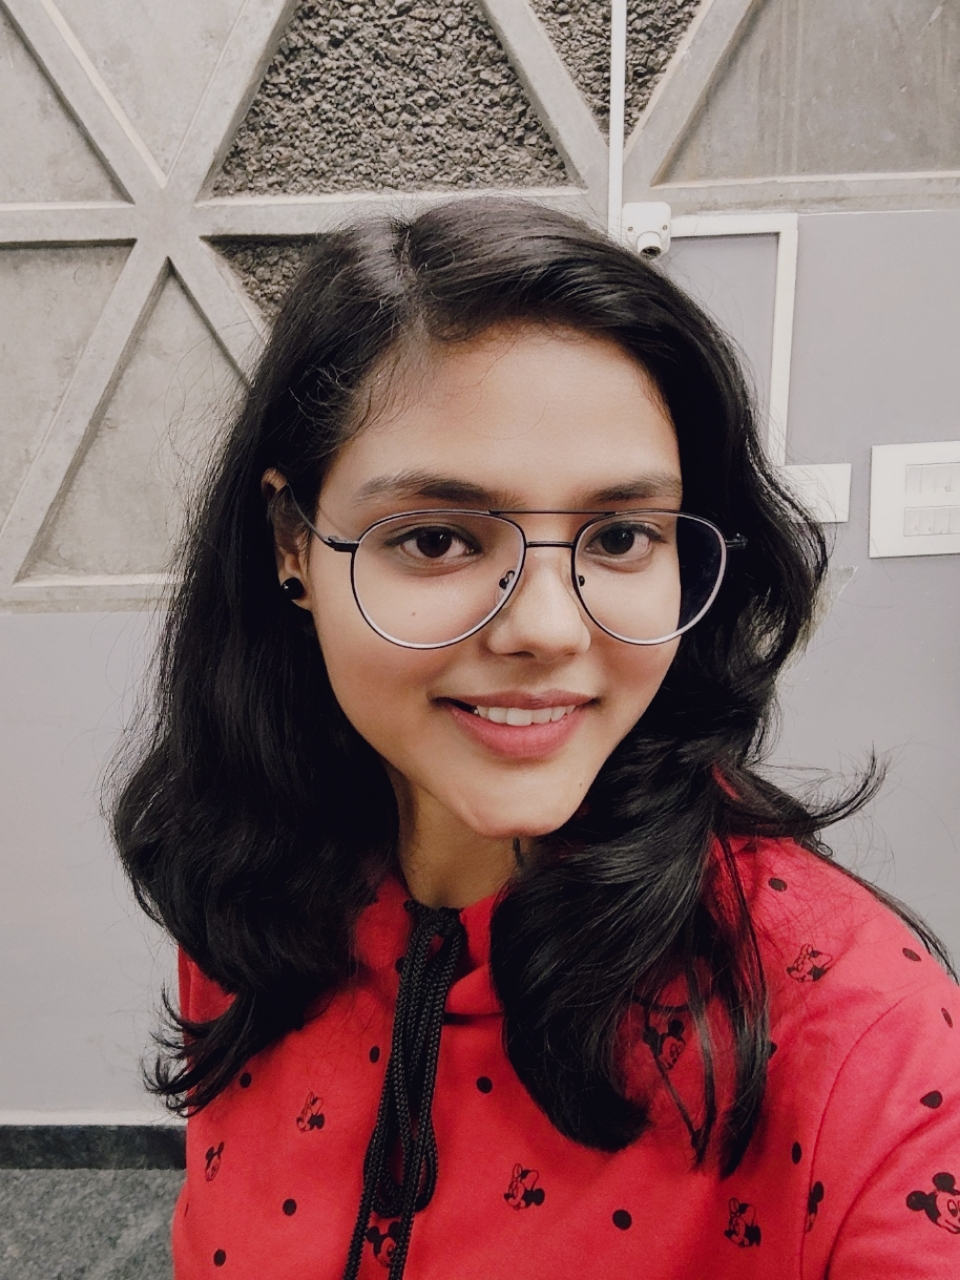
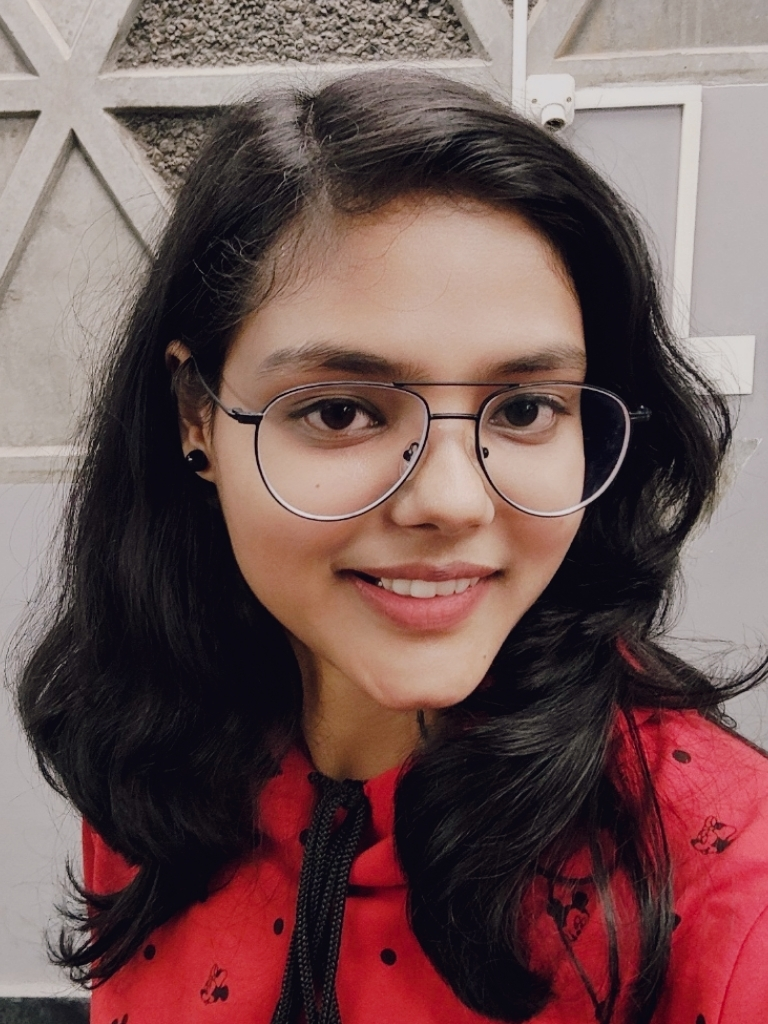
everything done except loading...

diff --git a/client/src/components/MembersList.js b/client/src/components/MembersList.js
@@ -4,7 +4,7 @@ const teamData = {
   MD_Adil: require("../assets/organisers/ADIL SALFI.jpeg"),
   sreejith: require("../assets/organisers/Sreejith R R.jpg"),
   harish: require("../assets/organisers/Harish Madireddi.jpeg"),
-  aman: require("../assets/organisers/Aman Jagtap.webp"),
+  aman: require("../assets/organisers/Aman Jagtap (1).jpg"),
   mayuri: require("../assets/organisers/Mayuri_chourasia  Rajesh.jpg"),
   rishi: require("../assets/organisers/Ravulapelly Rishi Kumar.jpg"),
   Diva: require("../assets/organisers/Diva Jaiwar.jpg"),
@@ -41,7 +41,7 @@ const teamData = {
   suryaansh: require("../assets/organisers/Suryaansh Jain.jpeg"),
   surya: require("../assets/organisers/SURYA SUDEEP.jpg"),
   ritik: require("../assets/organisers/Ritik Pal.jpg"),
-  jaswanth: require("../assets/organisers/Jaswanth beere.jpg"),
+  jaswanth: require("../assets/organisers/Jaswanth beere.jpeg"),
   bhanu: require("../assets/organisers/CHEMIKALA BHANU TEJA REDDY.jpeg"),
   ramanathan: require("../assets/organisers/RAMANATHAN ANNAMALAI.jpg"),
   uday: require("../assets/organisers/P Uday Ratna Sekhar.jpg"),
@@ -54,7 +54,7 @@ const teamData = {
   ahinraj: require("../assets/organisers/AHINRAJ M S.jpg"),
   divyaM: require("../assets/organisers/DIVYA M.jpg"),
   nabeelM: require("../assets/organisers/NABEEL MOHAMMED P T.JPG"),
-  // ravindra: require("../assets/organisers/.jpg"),
+  ravindra: require("../assets/organisers/ravinder.jpeg"),
   BRohit: require("../assets/organisers/Bevara Rohit.jpg"),
   abhishek: require("../assets/organisers/Abhishek Ghosh.jpg"),
   BAnvitha: require("../assets/organisers/Anvitha.jpg"),
